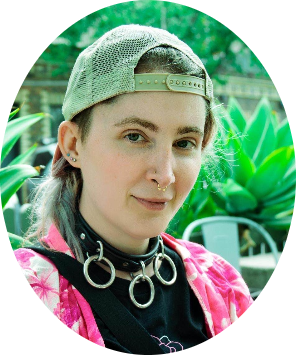
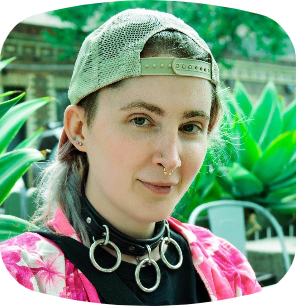
about-us page updates, new version incl pr and social media links (#147)
* Create styling attributes for about-us page

* New shape for Holden image on about-us page

* New shape for Timbit image on about-us page

* Create new section for as featured in on about-us page

* Add font awesome import on base

* Add Arm and Leg logo

* Add Fast Company news logo

* Add News Nation logo

* Add SF Standard logo

* Add Wbr NPR logo

* Deleted commented out social links in bio blurb, leave under Holden pic

* Create styling for social media logos separate from existing thumbnail sizing

* Remove Font Awesome import due to request limit

* Updated social media icons coming from image source and external link in new tab

* Create bluesky logo

* Create linkedin logo

* Create threads logo

* Create tiktok logo

* Create twitter logo

diff --git a/fighthealthinsurance/templates/about_us.html b/fighthealthinsurance/templates/about_us.html
@@ -7,6 +7,7 @@ About Us
 {% block content %}
 <div class="container mt-5">
     <h3>About Us</h3>
+    <div class="spacer"></div>
     <p>
         We are (exclusively) serving America, not because we don't love Europe, the rest of North America, Africa, or
         any other place in the world, but because, frankly, American health insurance is a special kind of SNAFU.
@@ -26,33 +27,70 @@ About Us
         If that sounds like you (or your business), we would love <a href="{% url 'pro_version' %}">to keep in touch</a> (and optionally, a small amount of
         money if you are interested in being a first beta user).
         <br><br>
-    </p>
+    <h5>As Featured In</h5>
+    <div class="row no-gutters">
+        <div class="col-md-2 text-center p-0">
+            <a href="https://www.fastcompany.com/91209422/if-your-health-insurance-denies-a-claim-this-tool-uses-ai-to-help-you-fight-back" target="_blank" rel="noopener noreferrer">
+            <img src="{% static '/images/fastcompanylogo.png' %}" alt="fastcompany-logo" class="img-fluid img-thumbnail"></a>
+        </div>
+        <div class="col-md-2 text-center p-0">
+            <a href="https://www.wbur.org/hereandnow/2024/11/11/ai-insurance-appeals" target="_blank" rel="noopener noreferrer">
+            <img src="{% static '/images/wbrlogo.png' %}" alt="wbr-logo" class="img-fluid img-thumbnail"></a>
+        </div>
+        <div class="col-md-2 text-center p-0">
+            <a href="https://armandalegshow.com/episode/fight-health-insurance-with-ai" target="_blank" rel="noopener noreferrer">
+            <img src="{% static '/images/armleglogo.png' %}" alt="armleg-logo" class="img-fluid img-thumbnail"></a>
+        </div>
+        <div class="col-md-2 text-center p-0">
+            <a href="https://www.newsnationnow.com/video/fighting-health-insurance-companies-with-ai-newsnation-prime/10025608" target="_blank" rel="noopener noreferrer">
+            <img src="{% static '/images/newsnationlogo.png' %}" alt="newsnation-logo" class="img-fluid img-thumbnail"></a>
+        </div>
+        <div class="col-md-2 text-center p-0">
+            <a href="https://sfstandard.com/2024/08/23/holden-karau-fight-health-insurance-appeal-claims-denials" target="_blank" rel="noopener noreferrer">
+            <img src="{% static '/images/sflogo.png' %}" alt="sfstandard-logo" class="img-fluid img-thumbnail"></a>
+        </div>
+    </div>
+</p>
     <div class="spacer"></div>
 
     <div class="row align-items-center">
     <div class="col-md-4 text-center">
         <img src="{% static '/images/holden.png' %}" alt="holden-pic" class="img-fluid img-thumbnail">
+        <p>
+            <a href="https://x.com/holdenkarau" target="_blank" rel="noopener noreferrer">
+            <img src="{% static '/images/twitterlogo.png' %}" alt="twitter-logo" class="img-fluid img-logo">
+            </a>
+
+            <a href="https://www.linkedin.com/in/holdenkarau" target="_blank" rel="noopener noreferrer">
+            <img src="{% static '/images/linkedinlogo.png' %}" alt="linkedin-logo" class="img-fluid img-logo">
+            </a>
+
+            <a href="https://www.threads.net/@hkarau" target="_blank" rel="noopener noreferrer">
+            <img src="{% static '/images/threadslogo.png' %}" alt="threads-logo" class="img-fluid img-logo">
+            </a>
+
+            <a href="https://bsky.app/profile/holdenkarau.com" target="_blank" rel="noopener noreferrer">
+            <img src="{% static '/images/blueskylogo.png' %}" alt="bluesky-logo" class="img-fluid img-logo">
+            </a>
+        </p>
     </div>
     <div class="col-md-8">
             <p>Holden Karau is a Canadian-born trans-woman living in America who's been working in tech for more than a decade.
             She's experienced the "joys" of American health insurance and helps her friends & loved ones navigate the seemingly random maze of disappointment and sadness.
             Her dislike of health insurance companies treating her loved ones unfairly led her to create Fight Health Insurance.
             Outside of fighting insurance companies and keeping them accountable, she rides motorcycles, works with big data and machine learning to pay the bills*,
-            spends time with her loved ones (most of all Professor Timbit), and dances to mashup music (or happy-hard-core if you're old enough to remember that). You can also follow her on all of the usual social media places where she talks about a mixture of these things (and sometimes live streams working on Fight Health Insurance) -- <a href=""></a>.
-            <br>
-            *For now: if any VC is out there, hit her up: <a href="holden@fighthealthinsurance.com">holden@fighthealthinsurance.com</a>
-            </p>
+            spends time with her loved ones (most of all Professor Timbit), and dances to mashup music (or happy-hard-core if you're old enough to remember that). You can also follow her on all of the usual social media places where she talks about a mixture of these things (and sometimes live streams working on Fight Health Insurance)<a href=""></a>.</p>
+            <p>*For now: if any VC is out there, hit her up: <a href="holden@fighthealthinsurance.com">holden@fighthealthinsurance.com</a></p>
         </div>
     </div>
+    <div class="spacer"></div>
     <div class="row align-items-center">
     <div class="col-md-4 text-center">
         <img src="{% static '/images/timbit-look-at-camera.jpg' %}" alt="timbit-look-at-camera" class="img-fluid img-thumbnail">
     </div>
     <div class="col-md-8">
-      <p>Timbit is an American born sheltie whose fight with pet insurance to cover anthesia during his root canal pushed Holden to finish Fight Health Insurance.
-        <br>
-        If you have comments, suggestions, or treat based sponsorship (and are not an insurance company) you can reach him through our support team at <a href="support42@fighthealthinsurance.com">support42@fighthealthinsurance.com</a>.
-      </p>
+      <p>Timbit is an American born sheltie whose fight with pet insurance to cover anesthesia during his root canal pushed Holden to finish Fight Health Insurance.</p>
+      <p>If you have comments, suggestions, or treat-based sponsorship (and are not an insurance company) you can reach him through our support team at <a href="support42@fighthealthinsurance.com">support42@fighthealthinsurance.com</a>.</p>
     </div>
 </div>
 {% endblock content %}

diff --git a/fighthealthinsurance/static/css/custom.css b/fighthealthinsurance/static/css/custom.css
@@ -182,11 +182,47 @@ a.link:hover::after {
     max-width: 200px;
     margin: auto;
     border: none;
+    height: auto;
+    padding: 5px;
+}
+
+.img-fluid.img-logo {
+    max-width: 25px;
+    margin: auto;
+    border: none;
+    height: auto;
+    padding: 5px;
 }
 
 .row.align-items-center {
-    margin-top: 20px;
     box-shadow: rgba(0, 0, 0, 0.1) 0px 10px 50px;
+}
+
+.row {
+    display: flex;
+    flex-wrap: nowrap;
+}
+
+.row.no-gutters {
+    margin: 0;
+    justify-content: center;
+}
+
+.row.no-gutters .col-md-2 {
+    padding: 0;
+    flex-basis: 20%;
+}
+
+.row.no-gutters .col-md-2 img{
+    width: 100%;
+    height: auto;
+    margin: 5px;
+    flex-basis: 20%;
+}
+
+.row .col-md-2 {
+    margin: 10px;
+    flex-basis: 20%;
 }
 
 #id_name, #id_job_title_or_provider_type, #id_email, #id_phone_number, #id_business_name, #id_address, #id_most_common_denial, #id_comments{
